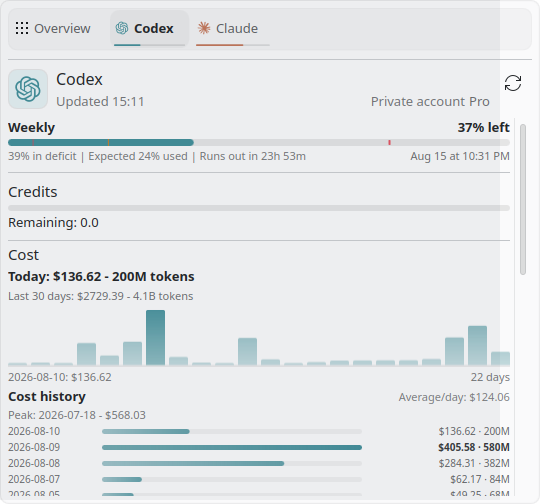
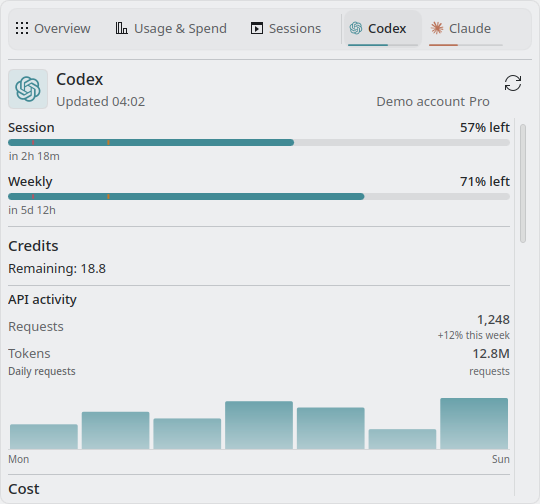
Update README screenshots for current UI

diff --git a/README.md b/README.md
@@ -10,12 +10,16 @@ authentication, configuration, quota parsing, and JSON output come from the
 
 ![CodexBar Plasma overview](docs/codexbar-plasma-overview.png)
 
+![Usage and spend dashboard](docs/codexbar-plasma-usage-spend.png)
+
+![Local agent sessions](docs/codexbar-plasma-sessions.png)
+
 ![Codex provider detail](docs/codexbar-plasma-codex.png)
 
-Screenshots use live usage figures, with the account email redacted before
-capture. They use one Plasma theme and accent color. The widget follows
-the user's Plasma theme for text, surfaces, selection, and status colors;
-provider accent colors stay stable for recognition.
+Screenshots use synthetic demo accounts, usage, spend, and session data; no
+personal account data is included. They use one Plasma theme and accent color.
+The widget follows the user's Plasma theme for text, surfaces, selection, and
+status colors; provider accent colors stay stable for recognition.
 
 ## Install
 
